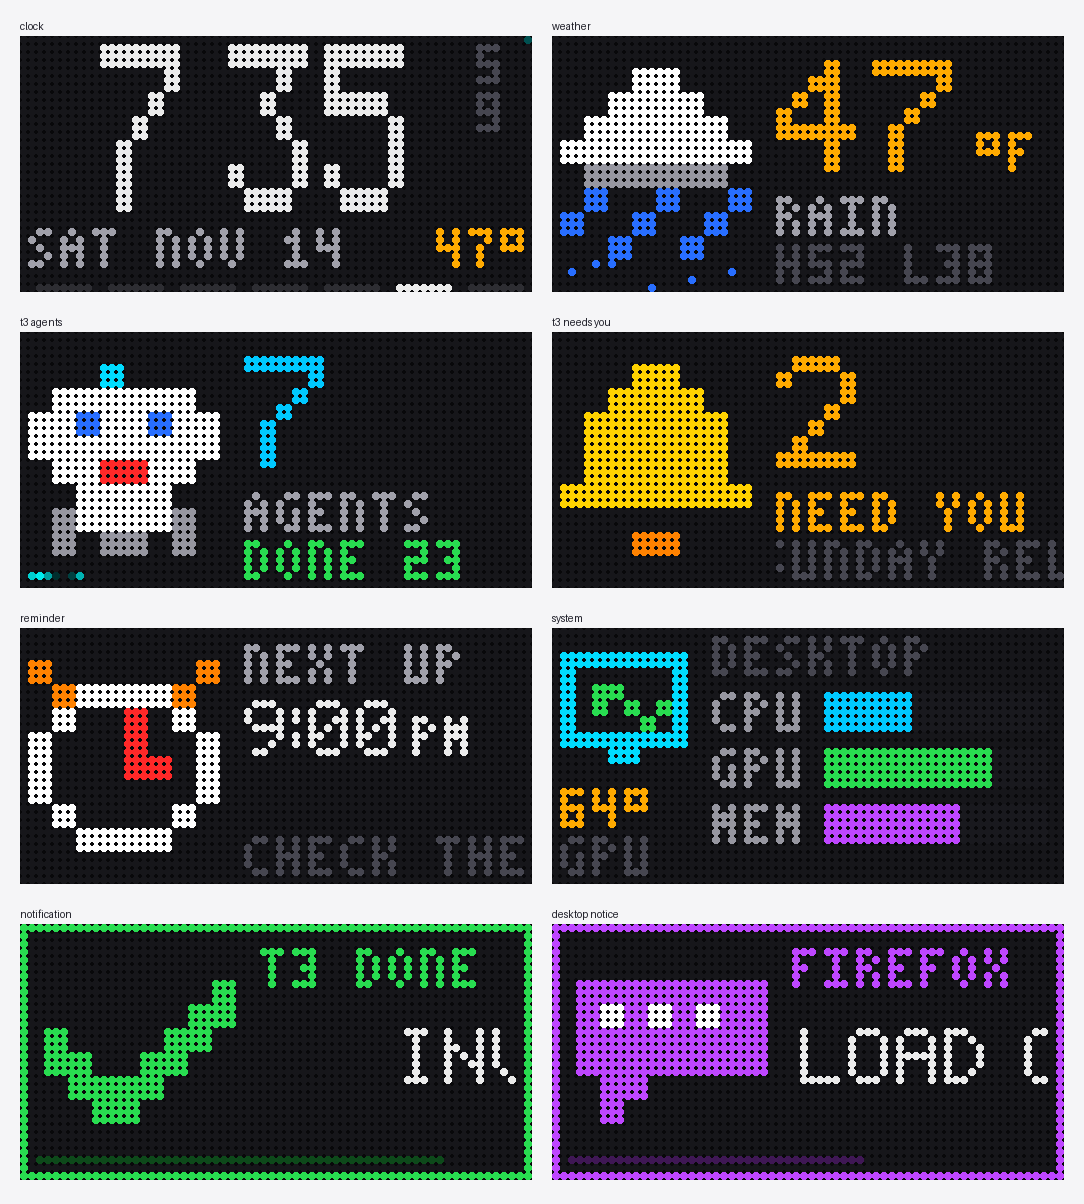
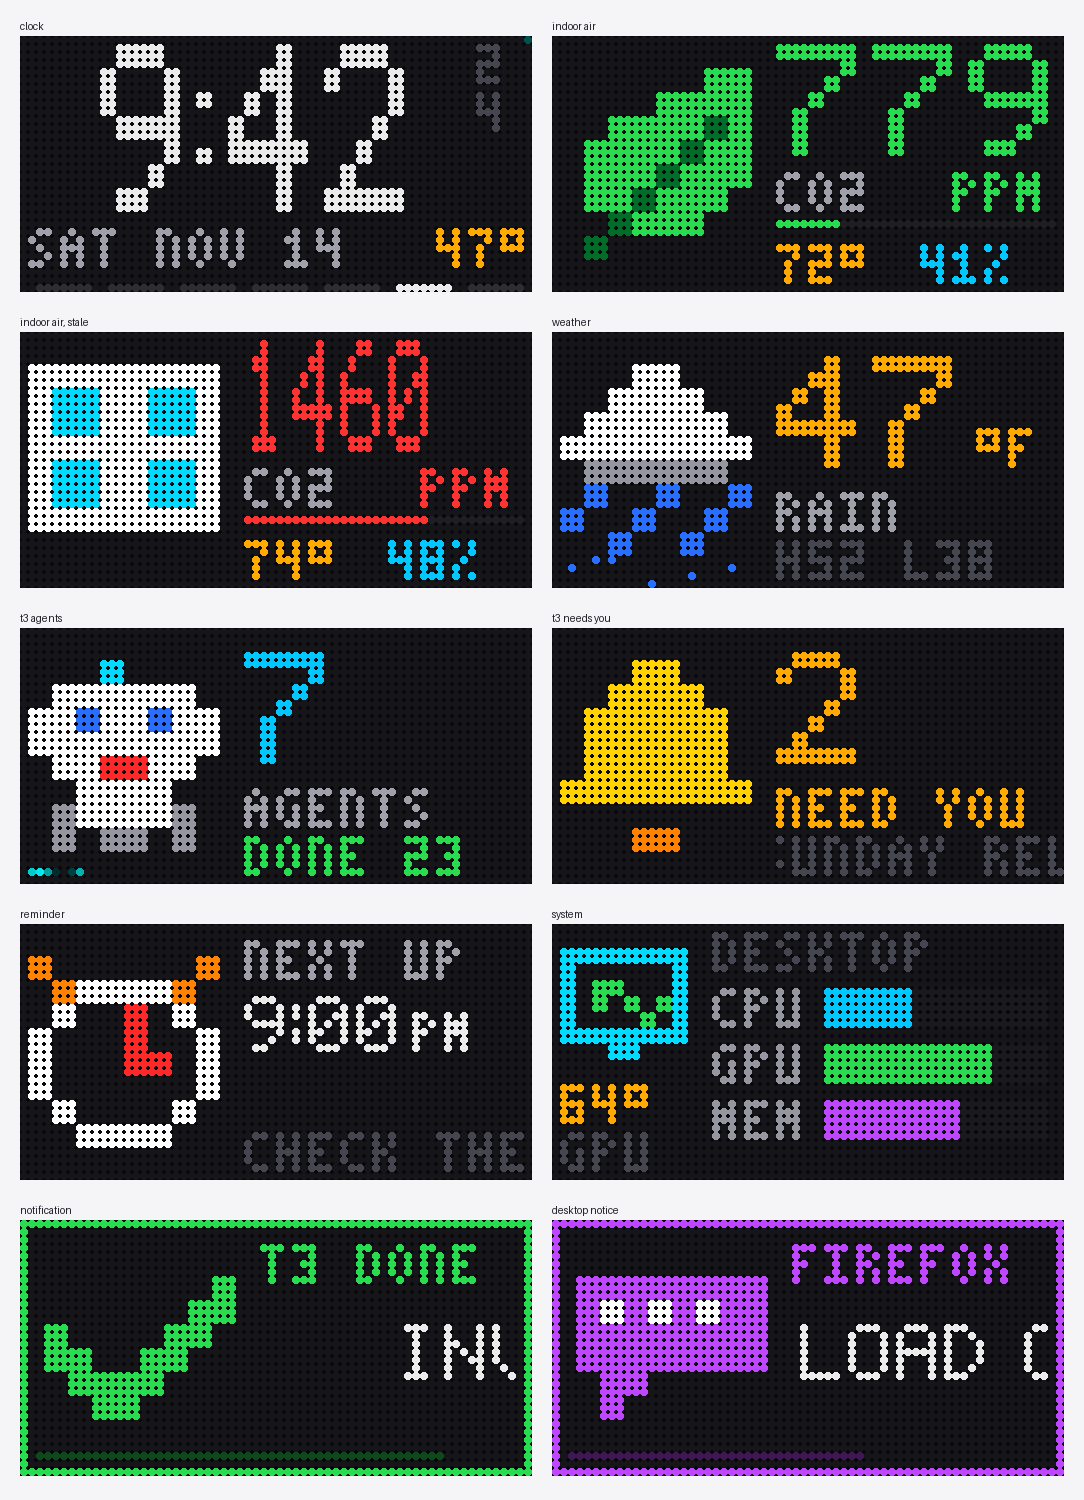
Show CO2, room temperature and humidity on the pixel clock, and stop the flicker (#8)
Adds an indoor air screen fed by the SCD41 and AHT10 on the Qwiic pHAT, with a
pop-up when CO2 passes 1200 ppm. Sets the panel defaults measured on the Pi
(steady 360 Hz refresh, 20% brightness) and enables I2C on first boot.

diff --git a/projects/pixel-clock/pixelclock/sensors.py b/projects/pixel-clock/pixelclock/sensors.py
@@ -1,0 +1,129 @@
+"""I2C sensors on the Qwiic pHAT: SCD41 (CO2, 0x62) and AHT20 (temperature/humidity, 0x38).
+
+python3 -m pixelclock.sensors     prints one reading from each sensor found.
+"""
+
+import time
+
+try:
+    from smbus2 import SMBus, i2c_msg
+except ImportError:  # preview machines without smbus2
+    SMBus = None
+
+SCD41 = 0x62
+AHT20 = 0x38
+
+
+def _crc8(data):
+    crc = 0xFF
+    for b in data:
+        crc ^= b
+        for _ in range(8):
+            crc = ((crc << 1) ^ 0x31) & 0xFF if crc & 0x80 else (crc << 1) & 0xFF
+    return crc
+
+
+class Scd41:
+    def __init__(self, bus):
+        self.bus = bus
+        self.cmd(0x3F86)  # stop periodic measurement, in case it was running
+        time.sleep(0.5)
+        self.serial = self.read_words(0x3682, 3)
+        self.cmd(0x21B1)  # start periodic measurement (a reading every 5 s)
+
+    def cmd(self, c):
+        self.bus.i2c_rdwr(i2c_msg.write(SCD41, [c >> 8, c & 0xFF]))
+
+    def read_words(self, c, n, delay=0.002):
+        self.cmd(c)
+        time.sleep(delay)
+        r = i2c_msg.read(SCD41, n * 3)
+        self.bus.i2c_rdwr(r)
+        raw = list(r)
+        words = []
+        for i in range(n):
+            chunk = raw[i * 3:i * 3 + 2]
+            if _crc8(chunk) != raw[i * 3 + 2]:
+                raise IOError("SCD41 CRC mismatch")
+            words.append(chunk[0] << 8 | chunk[1])
+        return words
+
+    def ready(self):
+        return (self.read_words(0xE4B8, 1)[0] & 0x07FF) != 0
+
+    def read(self):
+        """(co2 ppm, temperature C, humidity %) or None when no new reading is ready."""
+        if not self.ready():
+            return None
+        co2, t, h = self.read_words(0xEC05, 3)
+        return co2, -45 + 175 * t / 65535, 100 * h / 65535
+
+
+class Aht20:
+    def __init__(self, bus):
+        self.bus = bus
+        self.model = "AHT"
+        status = self.status()
+        if not status & 0x08:  # not calibrated: initialise
+            bus.i2c_rdwr(i2c_msg.write(AHT20, [0xBE, 0x08, 0x00]))
+            time.sleep(0.01)
+
+    def status(self):
+        r = i2c_msg.read(AHT20, 1)
+        self.bus.i2c_rdwr(r)
+        return list(r)[0]
+
+    def read(self):
+        """(temperature C, humidity %)"""
+        self.bus.i2c_rdwr(i2c_msg.write(AHT20, [0xAC, 0x33, 0x00]))
+        time.sleep(0.09)
+        r = i2c_msg.read(AHT20, 7)
+        self.bus.i2c_rdwr(r)
+        d = list(r)
+        if d[0] & 0x80:
+            raise IOError("AHT busy")
+        # An AHT20 appends a CRC byte; the older AHT10 does not, so only trust a match
+        self.model = "AHT20" if _crc8(d[:6]) == d[6] else "AHT10"
+        hum = ((d[1] << 12) | (d[2] << 4) | (d[3] >> 4)) * 100 / (1 << 20)
+        temp = (((d[3] & 0x0F) << 16) | (d[4] << 8) | d[5]) * 200 / (1 << 20) - 50
+        return temp, hum
+
+
+def open_sensors(busno=1):
+    """Return (bus, scd41 or None, aht20 or None)."""
+    if SMBus is None:
+        return None, None, None
+    bus = SMBus(busno)
+    scd = aht = None
+    try:
+        scd = Scd41(bus)
+    except OSError:
+        pass
+    try:
+        aht = Aht20(bus)
+    except OSError:
+        pass
+    return bus, scd, aht
+
+
+def c_to_f(c):
+    return c * 9 / 5 + 32
+
+
+if __name__ == "__main__":
+    bus, scd, aht = open_sensors()
+    if aht:
+        t, h = aht.read()
+        print(f"{aht.model}: {c_to_f(t):.1f} F, {h:.0f}% humidity")
+    else:
+        print("AHT20: not found")
+    if scd:
+        print("SCD41 serial", "-".join(f"{w:04x}" for w in scd.serial), "- waiting for first reading...")
+        for _ in range(15):
+            time.sleep(1)
+            r = scd.read()
+            if r:
+                print(f"SCD41: {r[0]} ppm CO2, {c_to_f(r[1]):.1f} F, {r[2]:.0f}% humidity")
+                break
+    else:
+        print("SCD41: not found")

diff --git a/projects/pixel-clock/pixelclock/app.py b/projects/pixel-clock/pixelclock/app.py
@@ -24,8 +24,12 @@ DEFAULTS = {
     "rows": 32,
     "cols": 64,
     "hardware_mapping": "adafruit-hat",
-    "gpio_slowdown": 4,
-    "brightness_day": 70,
+    # Measured on the Pi 4 with a proper supply: a steady 360 Hz, no visible flicker
+    "gpio_slowdown": 3,
+    "pwm_bits": 8,
+    "pwm_lsb_nanoseconds": 60,
+    "limit_refresh_rate_hz": 360,
+    "brightness_day": 20,
     "brightness_night": 12,
     "night_start": 22,
     "night_end": 7,
@@ -36,7 +40,10 @@ DEFAULTS = {
     "token": "",
     "latitude": None,
     "longitude": None,
-    "rotation": [["clock", 25], ["weather", 7], ["t3", 7], ["clock", 20], ["reminder", 6], ["system", 6]],
+    "rotation": [["clock", 25], ["indoor", 7], ["weather", 7], ["t3", 7], ["clock", 20], ["indoor", 7],
+                 ["reminder", 6], ["system", 6]],
+    "indoor_temp_offset_c": 0.0,  # subtract sensor self-heating, e.g. -3.0
+    "co2_alert_ppm": 1200,
     "fps": 30,
 }
 
@@ -207,6 +214,38 @@ def weather_loop(state, cfg, stop):
             stop.wait(120)
 
 
+def sensor_loop(state, cfg, stop, scd, aht):
+    """Read the SCD41 and AHT sensors every 5 s; pop up once when CO2 crosses the alert level."""
+    off = cfg.get("indoor_temp_offset_c", 0.0)
+    alert = cfg.get("co2_alert_ppm", 1200)
+    alerted = False
+    last = {}
+    while not stop.is_set():
+        try:
+            if scd:
+                r = scd.read()
+                if r:
+                    last["co2"] = r[0]
+                    last.setdefault("temp", r[1] + off)
+                    last.setdefault("hum", r[2])
+            if aht:
+                t, h = aht.read()
+                last["temp"], last["hum"] = t + off, h
+            if last:
+                state.merge({"indoor": dict(last)})
+            co2 = last.get("co2")
+            if co2 is not None:
+                if co2 >= alert and not alerted:
+                    alerted = True
+                    state.notify({"icon": "window", "title": "Air is stale", "text": f"CO2 {co2} ppm. Open a window!",
+                                  "color": [255, 170, 0], "duration": 10})
+                elif co2 < alert - 150:
+                    alerted = False
+        except Exception as e:
+            state.merge({"sensor_error": {"error": str(e)[:200]}})
+        stop.wait(5)
+
+
 def make_handler(state, cfg):
     token = cfg.get("token") or ""
 
@@ -274,11 +313,22 @@ def main():
     ap.add_argument("--config", default="/etc/pixelclock.json")
     ap.add_argument("--backend", choices=["matrix", "null"], default="matrix")
     ap.add_argument("--no-weather", action="store_true")
+    ap.add_argument("--no-sensors", action="store_true")
     args = ap.parse_args()
     cfg = load_cfg(args.config)
     state = State()
     stop = threading.Event()
+    # Open I2C before the matrix library drops root privileges; the open handle keeps working after
+    scd = aht = None
+    if not args.no_sensors:
+        from .sensors import open_sensors
+        try:
+            _bus, scd, aht = open_sensors()
+        except OSError:
+            pass
     backend = MatrixBackend(cfg) if args.backend == "matrix" else NullBackend()
+    if scd or aht:
+        threading.Thread(target=sensor_loop, args=(state, cfg, stop, scd, aht), daemon=True).start()
     srv = ThreadingHTTPServer(("0.0.0.0", cfg["port"]), make_handler(state, cfg))
     threading.Thread(target=srv.serve_forever, daemon=True).start()
     if not args.no_weather:

diff --git a/projects/pixel-clock/pixelclock/scenes.py b/projects/pixel-clock/pixelclock/scenes.py
@@ -225,6 +225,45 @@ def scene_reminder(state, now, t, cfg):
     return img
 
 
+def co2_color(ppm):
+    if ppm < 800:
+        return GREEN
+    if ppm < 1200:
+        return AMBER
+    return RED
+
+
+def scene_indoor(state, now, t, cfg):
+    s = state.get("indoor")
+    if not s or time.time() - s.get("ts", 0) > 120:
+        return None
+    img = blank()
+    co2 = s.get("co2")
+    if co2 is not None:
+        col = co2_color(co2)
+        draw_icon(img, 1, 4, "leaf" if co2 < 1200 else "window", scale=3)
+        v = str(int(co2))
+        if len(v) <= 3:
+            draw_big(img, 28, 1, v, col, sx=2, sy=2)
+        else:  # 4 digits: narrower
+            draw_big(img, 28, 1, v, col, sx=1, sy=2)
+        draw_text(img, 28, 17, "CO2", (160, 160, 170), font=SMALL)
+        draw_text(img, 50, 17, "PPM", col, font=SMALL)
+        # Level bar: 400 to 2000 ppm
+        n = int(max(0, min(1, (co2 - 400) / 1600)) * 35)
+        for x in range(28, 63):
+            img.putpixel((x, 23), col if x - 28 < n else (30, 30, 35))
+    else:
+        draw_icon(img, 1, 4, "leaf", scale=3)
+    if s.get("temp") is not None:
+        units = cfg.get("units", "F")
+        tt = s["temp"] if units == "C" else s["temp"] * 9 / 5 + 32
+        draw_text(img, 28, 26, f"{round(tt)}°", AMBER, font=SMALL)
+    if s.get("hum") is not None:
+        draw_text(img, 46, 26, f"{round(s['hum'])}%", CYAN, font=SMALL)
+    return img
+
+
 def _ticker(img, y, text, color, t, x0=0, speed=14):
     """Scroll text within [x0, 64) on row y (SMALL font)."""
     tw = text_width(text, SMALL)
@@ -310,5 +349,6 @@ SCENES = {
     "weather": scene_weather,
     "t3": scene_t3,
     "reminder": scene_reminder,
+    "indoor": scene_indoor,
     "system": scene_system,
 }

diff --git a/projects/pixel-clock/tools/refresh_test.py b/projects/pixel-clock/tools/refresh_test.py
@@ -1,0 +1,29 @@
+"""Measure the matrix refresh rate for a set of options (run on the Pi with the service stopped).
+
+sudo python3 refresh_test.py PWM_BITS LIMIT_HZ [SLOWDOWN] [MAPPING] [LSB_NS]
+Prints the library's own refresh-rate readout for ~6 seconds while showing a clock-like frame.
+"""
+import sys
+import time
+
+from PIL import Image, ImageDraw
+from rgbmatrix import RGBMatrix, RGBMatrixOptions
+
+o = RGBMatrixOptions()
+o.rows, o.cols = 32, 64
+o.hardware_mapping = sys.argv[4] if len(sys.argv) > 4 else "adafruit-hat"
+o.gpio_slowdown = int(sys.argv[3]) if len(sys.argv) > 3 else 4
+o.pwm_bits = int(sys.argv[1])
+o.limit_refresh_rate_hz = int(sys.argv[2])
+o.brightness = 20
+if len(sys.argv) > 5:
+    o.pwm_lsb_nanoseconds = int(sys.argv[5])
+o.show_refresh_rate = True
+o.drop_privileges = False
+m = RGBMatrix(options=o)
+img = Image.new("RGB", (64, 32))
+d = ImageDraw.Draw(img)
+d.rectangle((4, 4, 59, 20), outline=(235, 235, 235))
+d.rectangle((40, 24, 60, 28), fill=(255, 170, 0))
+m.SetImage(img)
+time.sleep(6)

diff --git a/projects/pixel-clock/tools/preview.py b/projects/pixel-clock/tools/preview.py
@@ -23,12 +23,16 @@ state = {
     "t3": {"running": 7, "waiting": 0, "done_today": 23, "ts": ts},
     "system": {"cpu": 42, "gpu": 77, "mem": 61, "gpu_temp": 64, "ts": ts},
     "reminder": {"when": "9:00", "ampm": "PM", "text": "Check the release plan", "ts": ts},
+    "indoor": {"co2": 779, "temp": 22.4, "hum": 41, "ts": ts},
 }
 waiting = dict(state, t3={"running": 5, "waiting": 2, "done_today": 9, "ts": ts,
                          "waiting_titles": ["Sunday release plan"]})
 cfg = dict(DEFAULTS)
 frames = [
     ("clock", scenes.scene_clock(state, now, 0, cfg)),
+    ("indoor air", scenes.scene_indoor(state, now, 0, cfg)),
+    ("indoor air, stale", scenes.scene_indoor(dict(state, indoor={"co2": 1460, "temp": 23.5, "hum": 48, "ts": ts}),
+                                              now, 0, cfg)),
     ("weather", scenes.scene_weather(state, now, 0.3, cfg)),
     ("t3 agents", scenes.scene_t3(state, now, 0.2, cfg)),
     ("t3 needs you", scenes.scene_t3(waiting, now, 0.2, cfg)),

diff --git a/projects/pixel-clock/pixelclock/icons.py b/projects/pixel-clock/pixelclock/icons.py
@@ -209,6 +209,26 @@ ICONS = {
         "WWWWWWWW",
         "........",
     ],
+    "leaf": [
+        "......GG",
+        "....GGGG",
+        "..GGGGgG",
+        ".GGGGgGG",
+        ".GGGgGGG",
+        ".GGgGGG.",
+        "..gGGG..",
+        ".g......",
+    ],
+    "window": [
+        "WWWWWWWW",
+        "WCCWWCCW",
+        "WCCWWCCW",
+        "WWWWWWWW",
+        "WCCWWCCW",
+        "WCCWWCCW",
+        "WWWWWWWW",
+        "........",
+    ],
     "cpu": [
         "........",
         "CCCCCCCC",

diff --git a/projects/pixel-clock/README.md b/projects/pixel-clock/README.md
@@ -5,6 +5,7 @@ A pixel-art desk clock in the style of the Ulanzi-type clocks: an icon on the le
 - Raspberry Pi 4 Model B
 - Adafruit RGB Matrix HAT + RTC
 - P3 RGB LED matrix panel, 64x32 (HUB75)
+- SparkFun Qwiic pHAT with an SCD41 CO2 sensor (0x62) and an AHT10 temperature and humidity sensor (0x38)
 
 ![Screens](preview.png)
 
@@ -13,6 +14,7 @@ A pixel-art desk clock in the style of the Ulanzi-type clocks: an icon on the le
 | Screen | What it shows |
 |---|---|
 | Clock | Big time with a blinking colon, seconds, the date, the outdoor temperature, a weekday bar. The top-right pixel pulses cyan while T3 agents work and blinks amber when a thread needs you. |
+| Indoor air | CO2 from the SCD41 (green under 800 ppm, amber to 1200, red above, with a level bar), room temperature and humidity from the AHT10. A pop-up says to open a window when CO2 passes 1200 ppm. |
 | Weather | Condition icon, temperature, high and low (Open-Meteo, refreshed every 15 minutes, no API key). Rain and snow fall under the icon. |
 | T3 agents | How many agent runs are going, and how many of your threads finished today. |
 | T3 needs you | Replaces the agents screen when a thread is waiting on an approval or question, with the thread title scrolling. |
@@ -69,5 +71,9 @@ python3 -m pixelclock.app --backend null --config test.json   # then open http:/
 ```
 
 ## Panel settings
+
+Flicker: the defaults (8-bit color, 60 ns pulses, GPIO slowdown 3, refresh capped at 360 Hz) were measured with `tools/refresh_test.py` on a Pi 4 at full speed. A weak power supply makes the Pi throttle to 600 MHz and the refresh rate falls to about 130 Hz, which flickers; `vcgencmd get_throttled` shows it. Power the Pi from its own supply and the panel through the HAT's barrel jack.
+
+`indoor_temp_offset_c` corrects the room temperature if the sensors sit close enough to the Pi to read warm.
 
 `/etc/pixelclock.json` on the Pi overrides the defaults in `pixelclock/app.py`: `hardware_mapping` (`adafruit-hat`, or `adafruit-hat-pwm` if the HAT's PWM jumper is soldered), `gpio_slowdown`, brightness, night hours, `hour24`, `units`, `latitude` and `longitude`, `led_rgb_sequence` if colors come out swapped, and the screen rotation.
